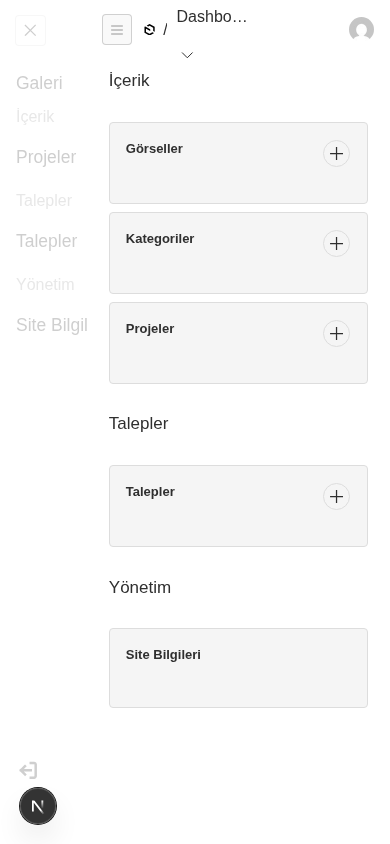
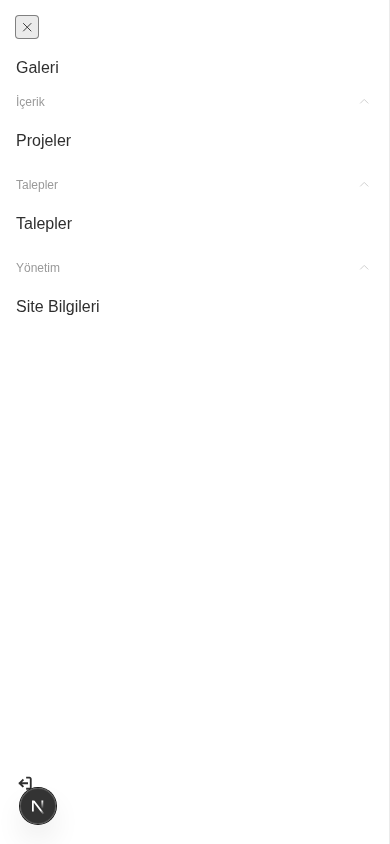
fix(admin): keep root font-size, scope tap targets, exempt PWA assets from basic auth (#27)
- Drop html font-size (squeezed the mobile nav); raise content/nav text to 16px instead
- 48px targets only on nav links and primary form controls
- Nav-hiding CSS tolerant of trailing slash/query; e2e asserts hidden-but-present, no clipped labels, tags/reference drawers work
- Manifest id, site icon kept as favicon, proxy exempts /admin.webmanifest and /brand/pwa-*

diff --git a/tests/e2e/admin-pwa.e2e.spec.ts b/tests/e2e/admin-pwa.e2e.spec.ts
@@ -25,6 +25,8 @@ test('admin links a valid manifest with reachable icons and iOS meta', async ({ 
 test('editor nav shows only the simplified menu (mobile)', async ({ browser }) => {
   test.setTimeout(90_000)
   const payload = await getPayload({ config })
+  const tagName = `E2E etiket ${Date.now()}`
+  await payload.create({ collection: 'tags', data: { name: tagName, axis: 'wood' } as never, locale: 'tr' })
   const emails = { in: [owner.email, editor.email] }
   await payload.delete({ collection: 'users', where: { email: emails } })
   // The first account ever created becomes admin, so an admin must exist before the editor.
@@ -35,15 +37,43 @@ test('editor nav shows only the simplified menu (mobile)', async ({ browser }) =
     await login({ page, user: editor })
     await page.locator('button[aria-label="Open Menu"]:visible').click()
     const nav = page.locator('aside')
+    // Wait for the slide-in to finish: the open nav must cover (nearly) the full 390px width, not a squeezed strip.
+    await expect.poll(async () => (await nav.boundingBox())?.width ?? 0).toBeGreaterThan(300)
     await expect(nav.getByRole('link', { name: 'Galeri' })).toBeVisible()
     for (const name of ['Projeler', 'Talepler', 'Site Bilgileri']) await expect(nav.getByRole('link', { name })).toBeVisible()
-    for (const name of ['Görseller', 'Kategoriler', 'Etiketler', 'Sayfalar', 'Kullanıcılar', 'Ana sayfa', 'Yapay Zeka']) await expect(nav.getByRole('link', { name })).toHaveCount(0)
-    expect(await page.evaluate(() => getComputedStyle(document.body).fontSize)).toBe('16px')
+    // Media/categories links exist (a selector that stops matching must fail) but are not visible to editors.
+    for (const slug of ['media', 'categories']) {
+      const link = nav.locator(`a[href*="/collections/${slug}"]`)
+      await expect(link).toHaveCount(1)
+      await expect(link).toBeHidden()
+    }
+    for (const name of ['Etiketler', 'Sayfalar', 'Kullanıcılar', 'Ana sayfa', 'Yapay Zeka']) await expect(nav.getByRole('link', { name })).toHaveCount(0)
+    // Nav labels are not clipped at 390px.
+    const clipped = await nav.locator('.nav__link-label, .nav__link').evaluateAll((els) => els.filter((e) => e.scrollWidth > e.clientWidth).map((e) => e.textContent))
+    expect(clipped).toEqual([])
+    await page.waitForTimeout(800) // let the slide-in transition settle before the screenshot
     await page.screenshot({ path: 'docs/screens/admin-editor-nav-mobile.png' })
+
     // Media stays routable: the Galeri view links editors to its edit screen.
     await page.goto('/admin/collections/media')
     await expect(page.getByText('Nothing found')).toHaveCount(0)
+
+    // Hidden Tags/References must still work in relationship fields: list, pick, and create in a drawer.
+    await page.goto('/admin/collections/projects/create')
+    const tags = page.locator('#field-tags')
+    await tags.click()
+    await tags.locator('input').fill(tagName) // the option list is paginated; search for ours
+    await expect(page.locator('.rs__option', { hasText: tagName })).toBeVisible()
+    await page.locator('.rs__option', { hasText: tagName }).click()
+    await expect(tags.locator('.relationship--multi-value-label__text')).toHaveText(tagName)
+    for (const id of ['tags', 'reference']) {
+      await page.locator(`#${id}-add-new button`).click()
+      await expect(page.getByRole('dialog').getByRole('button', { name: 'Save' })).toBeVisible()
+      await page.getByRole('dialog').getByRole('button', { name: 'Close' }).last().click()
+      await expect(page.getByRole('dialog')).toHaveCount(0)
+    }
   } finally {
+    await payload.delete({ collection: 'tags', where: { name: { equals: tagName } } })
     await payload.delete({ collection: 'users', where: { email: emails } })
   }
 })

diff --git a/src/app/(payload)/custom.scss b/src/app/(payload)/custom.scss
@@ -1,18 +1,19 @@
-/* #27: Admin for non-technical editors: 16px base text (Payload default 13px) and tap targets >= 48px. */
-/* Payload sizes everything in rem from a 13px (12px on phones) html, so this scales text and spacing together. */
-html {
+/* #27: Admin for non-technical editors: 16px content text (Payload: 13px, 12px on phones) and 48px tap targets.
+   The root font-size is left alone on purpose: Payload's layout (nav width, gutters) is rem-based and breaks at 390px if it grows. */
+.template-default__wrap,
+.template-default__wrap input,
+.template-default__wrap textarea,
+.template-default__wrap select,
+.nav__link {
   font-size: 16px;
 }
 
-.btn,
 .nav__link,
 .nav a,
-.list-controls__toggle-columns,
-.pill,
-.table a,
-input:not([type='checkbox']):not([type='radio']):not([type='file']),
-select,
-.react-select .rs__control {
+.template-default__wrap .btn:not(.btn--icon-only),
+.template-default__wrap input:not([type='checkbox']):not([type='radio']):not([type='file']),
+.template-default__wrap select,
+.template-default__wrap .react-select .rs__control {
   min-block-size: 48px;
 }
 

diff --git a/tests/int/admin-menu.int.spec.ts b/tests/int/admin-menu.int.spec.ts
@@ -2,6 +2,7 @@
 // for the Galeri view (their nav links are hidden by GaleriNavLink instead); admins see all. Access control is untouched.
 import { describe, expect, it } from 'vitest'
 
+import { hiddenFromEditor } from '@/access'
 import config from '@/payload.config'
 
 const editor = { id: 1, role: 'editor' }
@@ -19,5 +20,10 @@ describe('admin nav per role', async () => {
 
   it('admin sees everything except the always-hidden lead photos', () => {
     expect(entities.filter((e) => isHidden(e, admin)).map((e) => e.slug)).toEqual(['lead-photos'])
+  })
+
+  it('a missing user is treated as hidden (fail closed)', () => {
+    expect(hiddenFromEditor({ user: undefined })).toBe(true)
+    expect(hiddenFromEditor({ user: null })).toBe(true)
   })
 })

diff --git a/src/components/admin/GaleriNavLink.tsx b/src/components/admin/GaleriNavLink.tsx
@@ -4,7 +4,7 @@ import Link from 'next/link'
 import { roleOf } from '@/access'
 
 // Editors reach these only through Galeri (edit photo, add category). `admin.hidden` would also 404 those screens, so hide the nav links only.
-const editorHiddenLinks = ['media', 'categories'].map((slug) => `.nav a[href$="/collections/${slug}"]`).join(',')
+const editorHiddenLinks = ['media', 'categories'].map((slug) => `.nav a[href*="/collections/${slug}"]`).join(',')
 
 /** Puts "Galeri" at the top of the admin sidebar (reuses Payload's nav link classes). */
 export function GaleriNavLink({ user }: ServerProps) {

diff --git a/src/proxy.ts b/src/proxy.ts
@@ -18,6 +18,8 @@ export default function proxy(req: NextRequest) {
 
   // The container healthcheck must work without credentials.
   if (pathname === '/api/health') return NextResponse.next()
+  // Admin PWA assets hold no secrets; browsers fetch the manifest without credentials, so exempt them (installability on dev).
+  if (pathname === '/admin.webmanifest' || pathname.startsWith('/brand/pwa-')) return NextResponse.next()
 
   // The deployed development environment sits entirely behind HTTP Basic auth (pages, admin, API, files)
   // and fails closed when the credential is missing.

diff --git a/src/payload.config.ts b/src/payload.config.ts
@@ -44,7 +44,7 @@ export default buildConfig({
     meta: {
       titleSuffix: '- Kefken Ahşap',
       icons: [
-        { rel: 'icon', type: 'image/png', url: '/brand/pwa-192.png' },
+        { rel: 'icon', type: 'image/png', url: '/icon.png' },
         { rel: 'apple-touch-icon', url: '/brand/apple-touch-icon.png' },
       ],
       manifest: '/admin.webmanifest',
